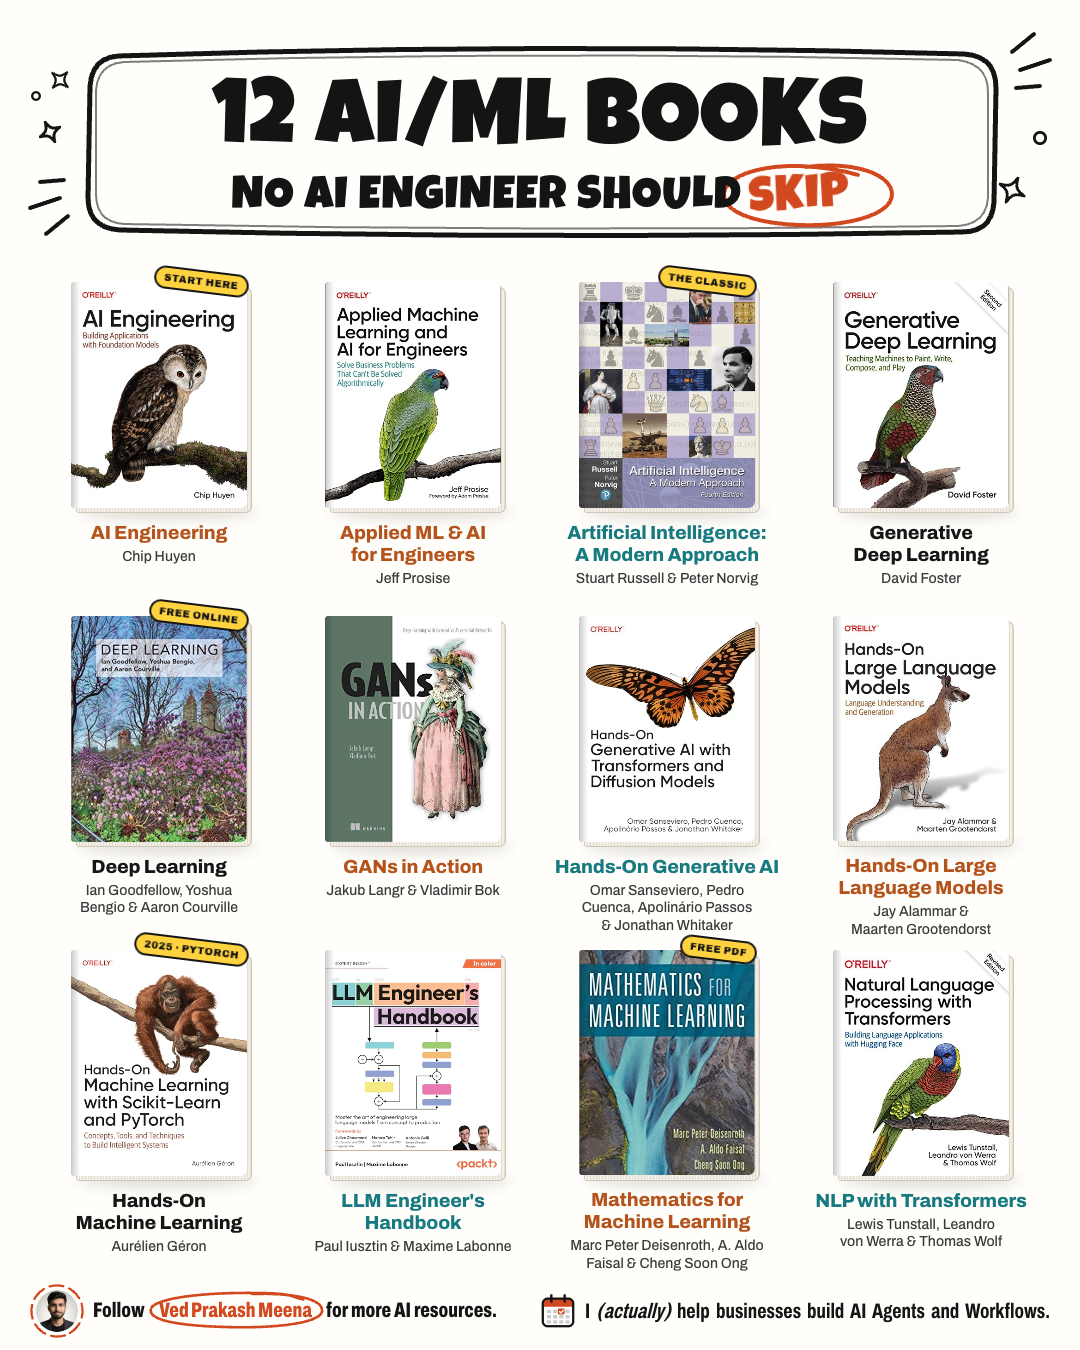
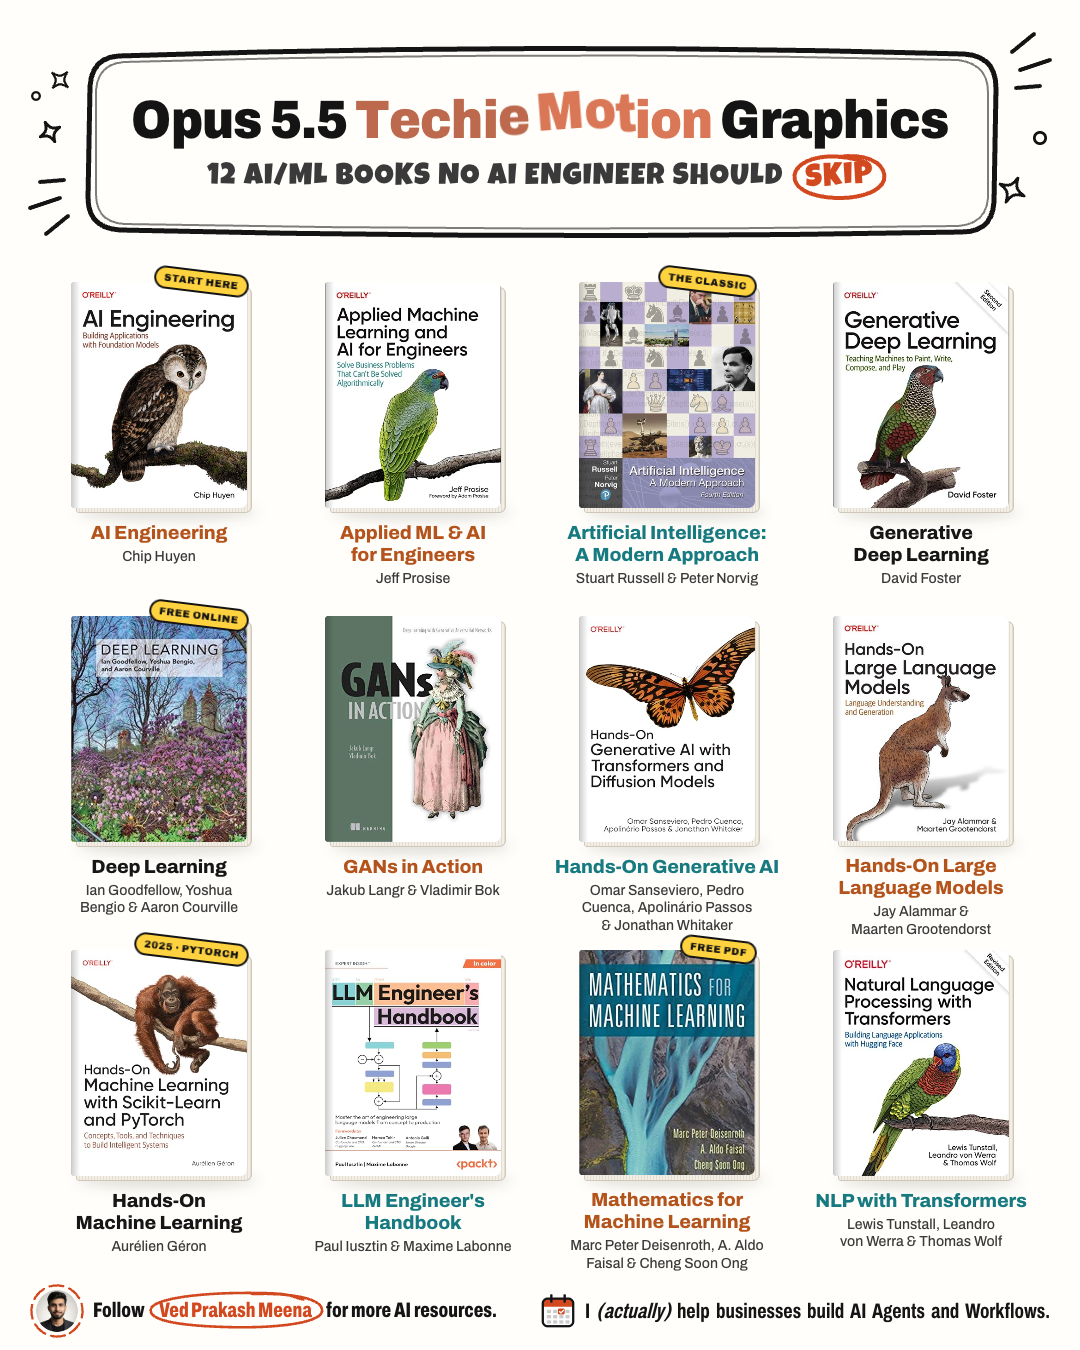
Update motion graphic heading

Changed region(s): [[0.1222, 0.0311, 0.8861, 0.1867]]

diff --git a/motion-graphics/ai-ml-books.html b/motion-graphics/ai-ml-books.html
@@ -3,7 +3,7 @@
 <head>
 <meta charset="utf-8">
 <meta name="viewport" content="width=device-width,initial-scale=1">
-<title>12 AI/ML Books</title>
+<title>Opus 5.5 Techie Motion Graphics</title>
 <link rel="preconnect" href="https://fonts.googleapis.com">
 <link rel="preconnect" href="https://fonts.gstatic.com" crossorigin>
 <link rel="stylesheet" href="https://fonts.googleapis.com/css2?family=Luckiest+Guy&family=Archivo:wdth,wght@62..125,400..900&family=JetBrains+Mono:wght@500;700;800&display=swap">
@@ -26,10 +26,10 @@
   /* heading */
   .hd{position:absolute;left:0;top:26px;width:1080px;height:236px}
   .hd svg.frame{position:absolute;inset:0}
-  .hd h1{position:absolute;left:0;right:0;top:52px;margin:0;text-align:center;font-family:"Luckiest Guy","Archivo Black",Impact,sans-serif;font-weight:400;line-height:1;color:#141414}
-  .hd h1 .l1{display:block;font-size:92px;letter-spacing:.01em}
-  .hd h1 .l2{display:block;font-size:46px;letter-spacing:.02em;margin-top:6px}
-  .hd h1 .skip{position:relative;display:inline-block;color:#D2481F;transform-origin:50% 60%}
+  .hd h1{position:absolute;left:0;right:0;top:67px;margin:0;text-align:center;font-family:"Luckiest Guy","Archivo Black",Impact,sans-serif;font-weight:400;line-height:1;color:#141414}
+  .hd h1 .l1{display:block;font-family:"Archivo","Helvetica Neue",Arial,sans-serif;font-weight:900;font-stretch:88%;font-size:54px;letter-spacing:-.015em}
+  .hd h1 .l2{display:block;font-size:30px;letter-spacing:.04em;margin-top:16px;color:#3A3A3A}
+  .hd h1 .skip{position:relative;display:inline-block;margin-left:16px;color:#D2481F;transform-origin:50% 60%}
   .hd h1 .ch{display:inline-block;will-change:transform}
 
   /* books */
@@ -79,7 +79,7 @@
 <body>
 <div class="page">
 <div class="holder" id="holder">
-<div class="poster" id="poster" role="img" aria-label="12 AI/ML books no AI engineer should skip, each cover animated, by Ved Prakash Meena">
+<div class="poster" id="poster" role="img" aria-label="Opus 5.5 Techie Motion Graphics: 12 AI/ML books no AI engineer should skip, each cover animated, by Ved Prakash Meena">
 
   <header class="hd">
     <svg class="frame" viewBox="0 0 1080 236" aria-hidden="true">
@@ -93,7 +93,7 @@
       <circle id="spk5" cx="36" cy="70" r="5" fill="none" stroke="#141414" stroke-width="3"/>
       <path id="skipRing" d="M806 141c46-6 84 6 86 26 2 22-46 34-94 32-46-2-76-14-74-32 2-17 36-28 76-27 22 1 42 4 58 9" fill="none" stroke="#D2481F" stroke-width="4" stroke-linecap="round" pathLength="1" stroke-dasharray="1 1" stroke-dashoffset="1"/>
     </svg>
-    <h1><span class="l1">12 AI/ML BOOKS</span><span class="l2">NO AI ENGINEER SHOULD <span class="skip">SKIP</span></span></h1>
+    <h1><span class="l1">Opus 5.5 Techie Motion Graphics</span><span class="l2">12 AI/ML BOOKS NO AI ENGINEER SHOULD <span class="skip">SKIP</span></span></h1>
   </header>
 
   <main class="grid">
@@ -351,16 +351,31 @@
 
   /* heading + footer share one choreography on a 4s beat, so they never sit still */
   const md = (x, m) => ((x % m) + m) % m;
+  // any word that is moving warms to Claude's coral, then settles back to its own colour
+  const CLAUDE = [217, 119, 87];   // #D97757
+  const rgb = el => getComputedStyle(el).color.match(/\d+/g).slice(0, 3).map(Number);
+  const warm = (el, base, p) => { const c = `rgb(${base.map((v, i) => Math.round(lerp(v, CLAUDE[i], p))).join(',')})`; if (el._c !== c) { el._c = c; el.style.color = c; } };
   const bump = (t, s, d = .36, P = 4) => { const u = md(t - s, P); return u < d ? Math.sin(Math.PI * u / d) : 0; };
   // a marker ring redraws once a loop: lifts off, then the pen draws it again (dasharray 1 1, pathLength 1)
   const mark = (el, t, at) => { const u = md(t - at, 8); el.style.opacity = u < .15 ? (1 - u / .15).toFixed(3) : 1; el.setAttribute('stroke-dashoffset', (u >= .15 && u < .85 ? 1 - E.io((u - .15) / .7) : 0).toFixed(4)); };
 
   /* hand-drawn boil: frame and marker rings redraw with a slight wobble, 5 times a second */
-  {
-    const vars = (el, amp, seed) => { const d0 = el.getAttribute('d'); return [0, 1, 2, 3].map(v => { let k = 0; return v ? d0.replace(/-?\d*\.?\d+/g, m => (+m + (hash(seed * 7717 + v * 1013 + k++) - .5) * 2 * amp).toFixed(1)) : d0; }); };
-    const B = [['#fr1', 1.4], ['#fr2', 1.2], ['#skipRing', 1], ['#nameRing', .9]].map(([q, a], i) => ({ el: $(q), V: vars($(q), a, i + 1) }));
-    def(t => { const v = Math.floor(t * 5 + 1e-6) % 4; B.forEach(b => { if (b.v !== v) { b.v = v; b.el.setAttribute('d', b.V[v]); } }); });
-  }
+  const vars = (el, amp, seed) => { const d0 = el.getAttribute('d'); return [0, 1, 2, 3].map(v => { let k = 0; return v ? d0.replace(/-?\d*\.?\d+/g, m => (+m + (hash(seed * 7717 + v * 1013 + k++) - .5) * 2 * amp).toFixed(1)) : d0; }); };
+  const B = [['#fr1', 1.4], ['#fr2', 1.2], ['#skipRing', 1], ['#nameRing', .9]].map(([q, a], i) => ({ el: $(q), V: vars($(q), a, i + 1) }));
+  def(t => { const v = Math.floor(t * 5 + 1e-6) % 4; B.forEach(b => { if (b.v !== v) { b.v = v; b.el.setAttribute('d', b.V[v]); } }); });
+
+  // the SKIP ring is redrawn to fit SKIP in the smaller subheading (path points rewritten, so the pen-dash still works)
+  const fitRing = () => {
+    const skip = $('.hd .skip'), ring = B[2].el, keep = skip.style.transform, d0 = B[2].V[0];
+    skip.style.transform = 'none'; ring.setAttribute('d', d0);
+    const bb = ring.getBBox(), hr = $('.hd').getBoundingClientRect(), mr = skip.getBoundingClientRect(), k = hr.width / 1080;
+    const X = (mr.left - hr.left) / k - 12, Y = (mr.top - hr.top) / k - 7, sx = (mr.width / k + 24) / bb.width, sy = (mr.height / k + 12) / bb.height;
+    const n = d0.match(/-?\d*\.?\d+/g).map(Number), f = v => v.toFixed(1);
+    let d = `M${f(X + (n[0] - bb.x) * sx)} ${f(Y + (n[1] - bb.y) * sy)}c`;
+    for (let i = 2; i < n.length; i += 2) d += `${i > 2 ? ' ' : ''}${f(n[i] * sx)} ${f(n[i + 1] * sy)}`;
+    ring.setAttribute('d', d); B[2].V = vars(ring, .8, 3); B[2].v = -1;
+    skip.style.transform = keep;
+  };
 
   /* heading: sparkles twinkle, speed lines whoosh, a wave runs through the title, SKIP gets re-marked */
   {
@@ -368,7 +383,9 @@
     const C = [[60, 54], [1012, 164], [50, 106], [1040, 112], [36, 70]];
     const l1 = $('.hd .l1'), chs = [], L1 = l1.textContent;
     l1.textContent = '';
-    [...L1].forEach(c => { if (c === ' ') l1.append(' '); else { const e = document.createElement('span'); e.className = 'ch'; e.textContent = c; l1.append(e); chs.push(e); } });
+    const words = [[]];
+    [...L1].forEach(c => { if (c === ' ') { l1.append(' '); words.push([]); } else { const e = document.createElement('span'); e.className = 'ch'; e.textContent = c; l1.append(e); chs.push(e); words[words.length - 1].push(e); } });
+    const titleBase = rgb(l1);
     def(t => {
       sp.forEach((e, i) => { const s = .75 + .35 * (.5 + .5 * Math.sin(2 * Math.PI * (t / 2 + i * .23))), r = 45 * Math.sin(2 * Math.PI * (t / 8 + i * .2)); e.setAttribute('transform', `translate(${C[i][0]} ${C[i][1]}) rotate(${r.toFixed(1)}) scale(${s.toFixed(3)}) translate(${-C[i][0]} ${-C[i][1]})`); });
       sl.forEach((e, k) => {
@@ -376,7 +393,8 @@
         const o = u < .15 ? 1 - E.out(u / .15) : u < .75 ? 0 : u < .9 ? -E.in((u - .75) / .15) : 1;
         e.setAttribute('stroke-dashoffset', o.toFixed(4));
       });
-      chs.forEach((e, j) => { const q = bump(t, j * .1, .45, 2); e.style.transform = `translateY(${(-10 * q).toFixed(2)}px) rotate(${(-5 * q).toFixed(2)}deg)`; });
+      chs.forEach((e, j) => { const q = bump(t, j * .1, .45, 2); e._q = q; e.style.transform = `translateY(${(-10 * q).toFixed(2)}px) rotate(${(-5 * q).toFixed(2)}deg)`; });
+      words.forEach(w => { const p = clamp(2.5 * Math.max(...w.map(e => e._q))); w.forEach(e => warm(e, titleBase, p)); });
       mark(ring, t, 7.2);
       const w = 4 * Math.sin(Math.PI * t);
       skip.style.transform = `rotate(${w.toFixed(2)}deg) scale(${(1 + .01 * Math.abs(w)).toFixed(3)})`;
@@ -632,14 +650,16 @@
 
   /* footer: a word wave runs 1 to n, follow line then help line, nonstop; the calendar books a slot every second */
   {
-    const L = $$('.ft .l .w'), R = $$('.ft .r .w'), ring = $('#nameRing'), phR = $('#phR');
+    const L = $$('.ft .l .w'), R = $$('.ft .r .w');
+    [...L, ...R].forEach(w => { if (w.tagName === 'SPAN' && !w.classList.contains('phw')) w._b = rgb(w); });
+    const ring = $('#nameRing'), phR = $('#phR');
     const calG = $('#calG'), calH = $('#calH'), calK = $('#calK'), calR = $$('#calR path');
     const CX = [10.5, 17, 23.5, 30], CY = [20.5, 26, 31.5];
     CY.forEach(y => CX.forEach(x => mk('rect', { x: x - 2.2, y: y - 1.8, width: 4.4, height: 3.6, rx: 1, fill: '#141414', 'fill-opacity': .22 }, calG)));
     const HOPS = [5, 2, 7, 9, 4, 11, 1, 10].map(i => [CX[i % 4], CY[Math.floor(i / 4)]]);
     def(t => {
-      L.forEach((w, j) => { if (j) w.style.transform = `translateY(${(-4 * bump(t, 1.65 + j * .08, .38, 2)).toFixed(2)}px)`; });
-      R.forEach((w, j) => { w.style.transform = `translateY(${(-4 * bump(t, .2 + j * .08, .38, 2)).toFixed(2)}px)`; });
+      L.forEach((w, j) => { if (!j) return; const q = bump(t, 1.65 + j * .08, .38, 2); w.style.transform = `translateY(${(-4 * q).toFixed(2)}px)`; warm(w, w._b, clamp(2.5 * q)); });
+      R.forEach((w, j) => { const q = bump(t, .2 + j * .08, .38, 2); w.style.transform = `translateY(${(-4 * q).toFixed(2)}px)`; if (w._b) warm(w, w._b, clamp(2.5 * q)); });
       // calendar: the booked day hops to a new date each second and gets a tick
       const k = Math.floor(md(t, 8)), u = md(t, 1), a = HOPS[(k + 7) % 8], b = HOPS[k], h = E.io(seg(u, 0, .28));
       calH.setAttribute('transform', `translate(${lerp(a[0], b[0], h).toFixed(2)} ${(lerp(a[1], b[1], h) - 4 * Math.sin(Math.PI * h)).toFixed(2)})`);
@@ -661,7 +681,7 @@
   fit(); addEventListener('resize', fit);
   window.__render = render; window.__ready = false;
   Promise.all([document.fonts.load('400 92px "Luckiest Guy"'), document.fonts.load('800 19px Archivo'), document.fonts.load('700 9px "JetBrains Mono"')])
-    .catch(() => {}).then(() => document.fonts.ready).then(() => { render(HERO); window.__ready = true; });
+    .catch(() => {}).then(() => document.fonts.ready).then(() => { fitRing(); render(HERO); window.__ready = true; });
   render(HERO);
   if (CAP) return;
   let playing = true, cur = HERO, base = performance.now() - HERO * 1000;
